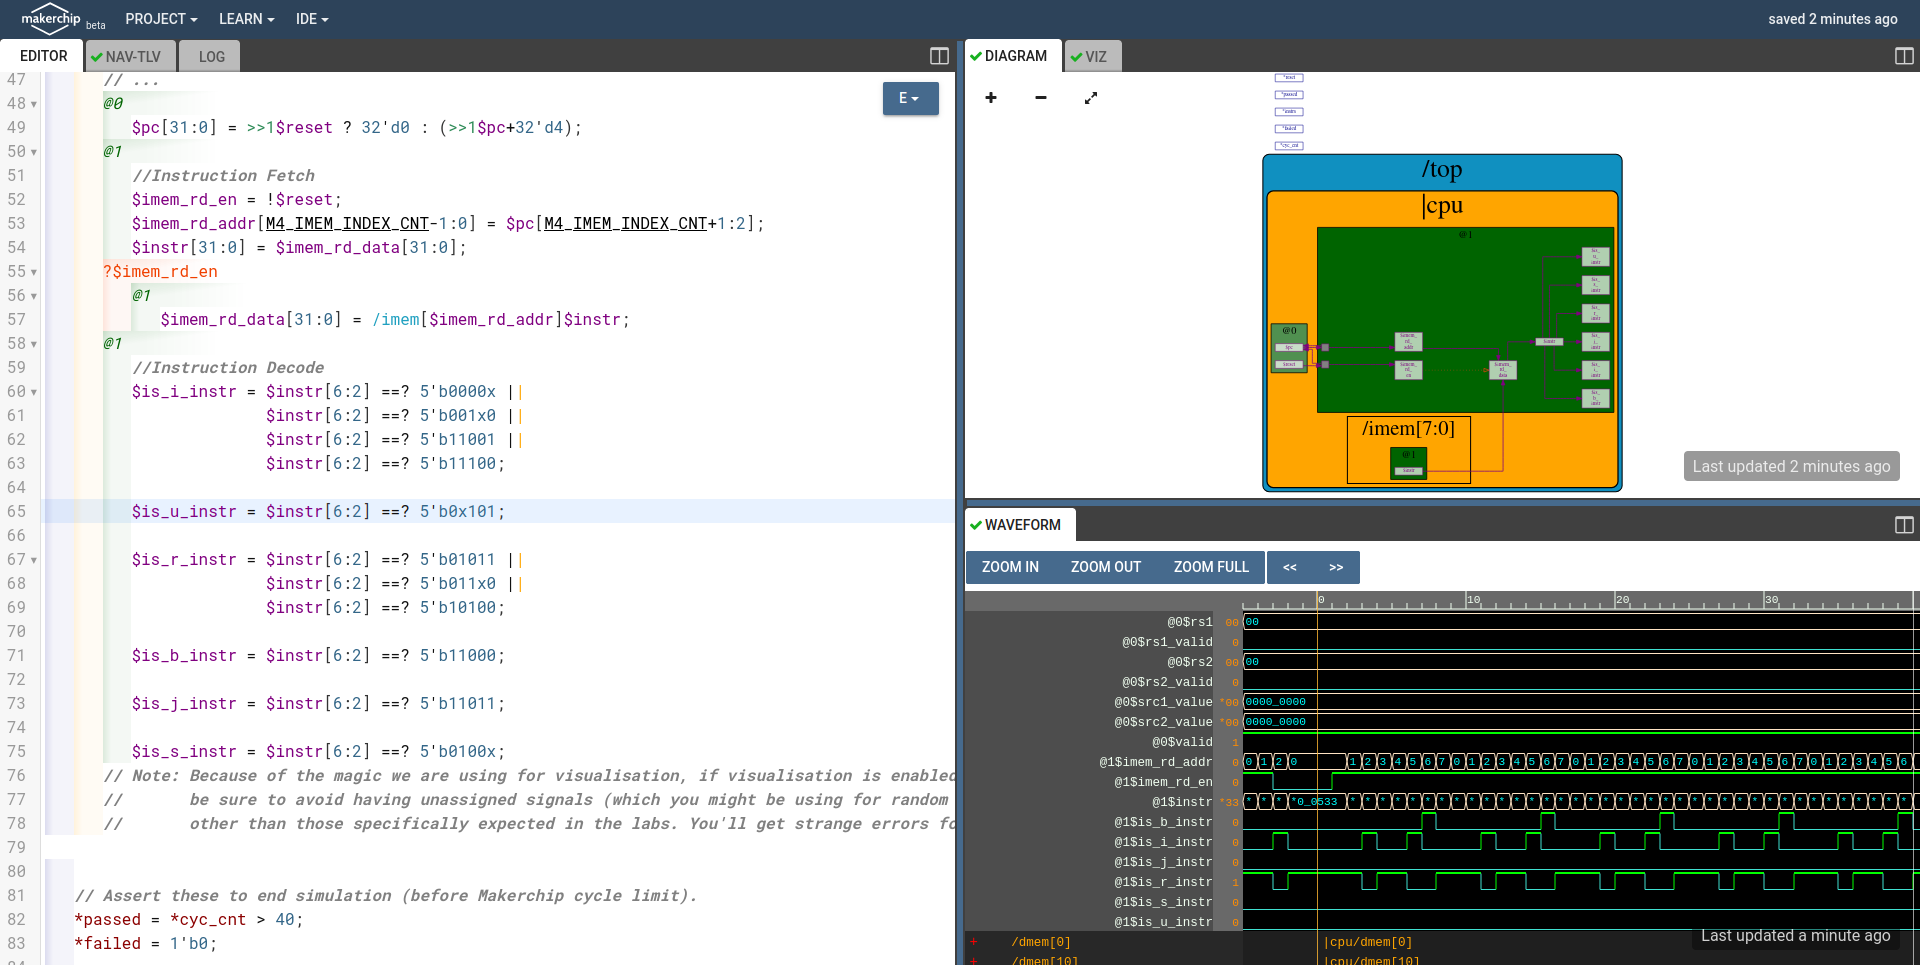
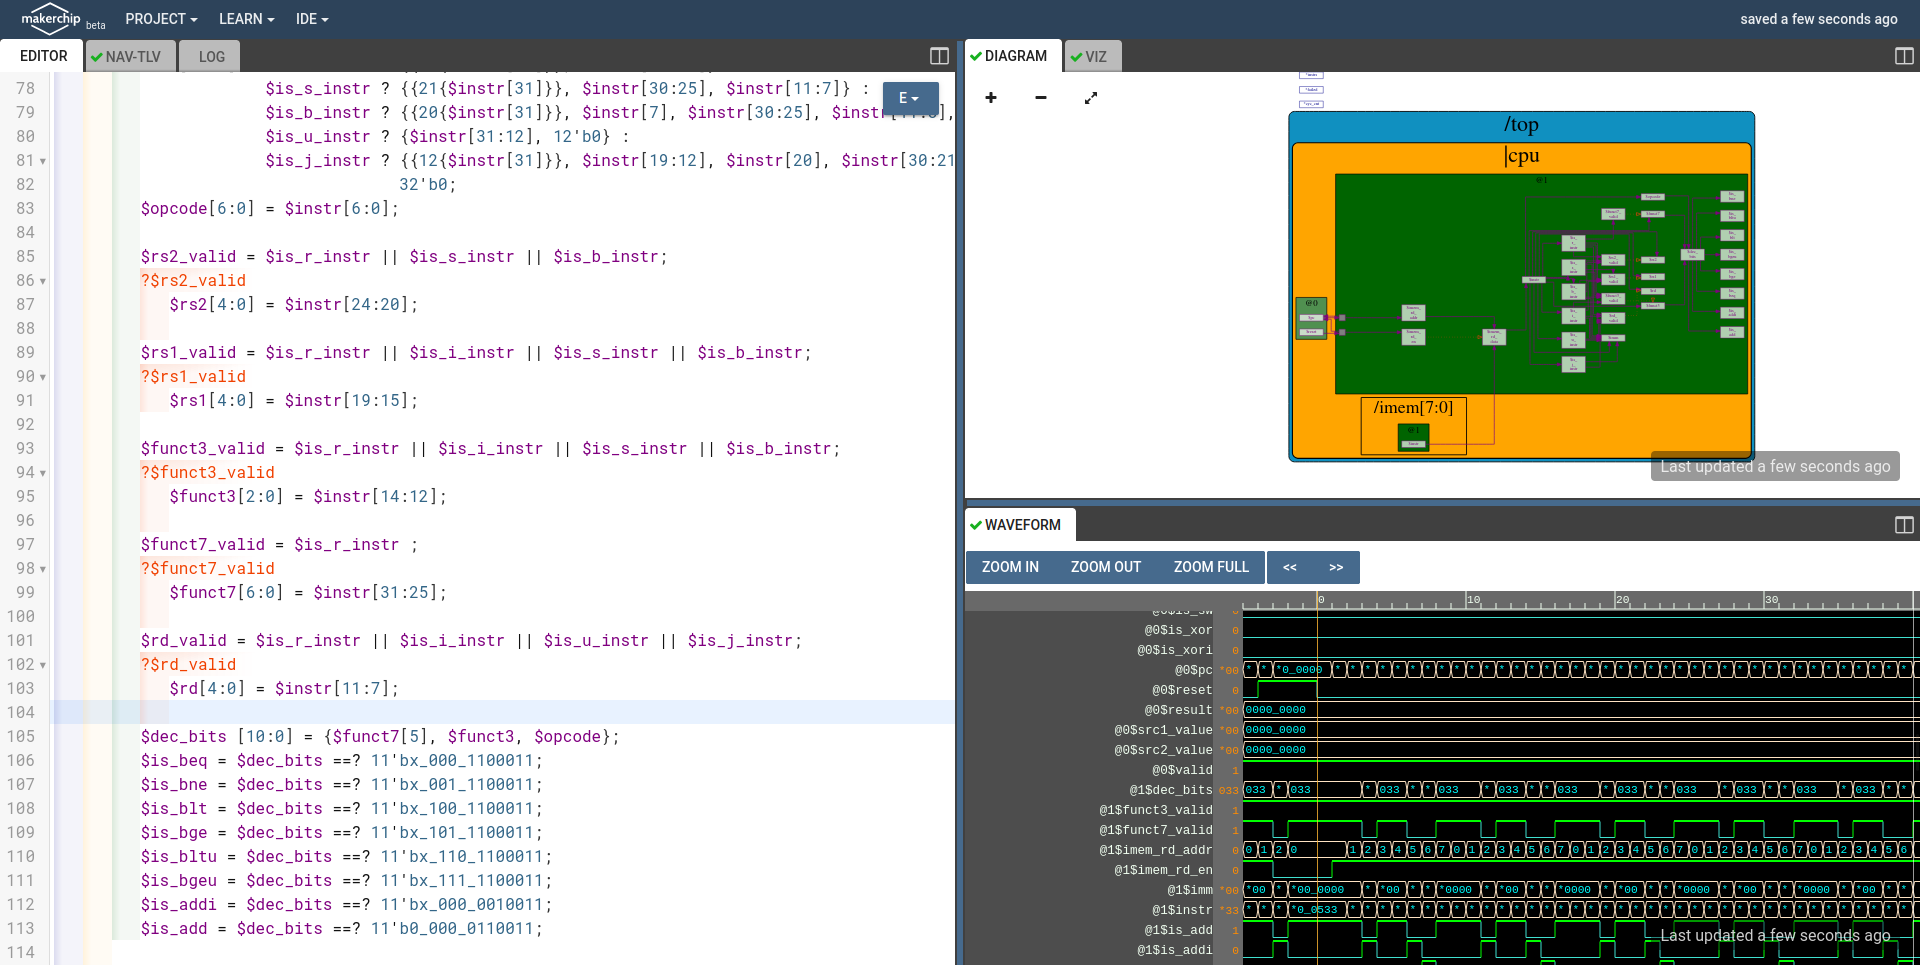
Updated

diff --git a/README.md b/README.md
@@ -1149,6 +1149,45 @@ The TL-Verilog code is given below :
          $is_j_instr = $instr[6:2] ==? 5'b11011;
          
          $is_s_instr = $instr[6:2] ==? 5'b0100x;
+         
+         $imm[31:0] = $is_i_instr ? {{21{$instr[31]}}, $instr[30:20]} :
+                      $is_s_instr ? {{21{$instr[31]}}, $instr[30:25], $instr[11:7]} :
+                      $is_b_instr ? {{20{$instr[31]}}, $instr[7], $instr[30:25], $instr[11:8], 1'b0} :
+                      $is_u_instr ? {$instr[31:12], 12'b0} :
+                      $is_j_instr ? {{12{$instr[31]}}, $instr[19:12], $instr[20], $instr[30:21], 1'b0} :
+                                    32'b0;
+         $opcode[6:0] = $instr[6:0];
+         
+         $rs2_valid = $is_r_instr || $is_s_instr || $is_b_instr;
+         ?$rs2_valid
+            $rs2[4:0] = $instr[24:20];
+            
+         $rs1_valid = $is_r_instr || $is_i_instr || $is_s_instr || $is_b_instr;
+         ?$rs1_valid
+            $rs1[4:0] = $instr[19:15];
+         
+         $funct3_valid = $is_r_instr || $is_i_instr || $is_s_instr || $is_b_instr;
+         ?$funct3_valid
+            $funct3[2:0] = $instr[14:12];
+            
+         $funct7_valid = $is_r_instr ;
+         ?$funct7_valid
+            $funct7[6:0] = $instr[31:25];
+            
+         $rd_valid = $is_r_instr || $is_i_instr || $is_u_instr || $is_j_instr;
+         ?$rd_valid
+            $rd[4:0] = $instr[11:7];
+            
+         $dec_bits [10:0] = {$funct7[5], $funct3, $opcode};
+         $is_beq = $dec_bits ==? 11'bx_000_1100011;
+         $is_bne = $dec_bits ==? 11'bx_001_1100011;
+         $is_blt = $dec_bits ==? 11'bx_100_1100011;
+         $is_bge = $dec_bits ==? 11'bx_101_1100011;
+         $is_bltu = $dec_bits ==? 11'bx_110_1100011;
+         $is_bgeu = $dec_bits ==? 11'bx_111_1100011;
+         $is_addi = $dec_bits ==? 11'bx_000_0010011;
+         $is_add = $dec_bits ==? 11'b0_000_0110011;
+      
       // Note: Because of the magic we are using for visualisation, if visualisation is enabled below,
       //       be sure to avoid having unassigned signals (which you might be using for random inputs)
       //       other than those specifically expected in the labs. You'll get strange errors for these.
@@ -1174,6 +1213,8 @@ The TL-Verilog code is given below :
    endmodule
 ```
 ![id](./riscv_isa_labs/day_4/images/id.png)
+
+
 
 [Acknowledgement Section]:#
 ## Acknowledgement
